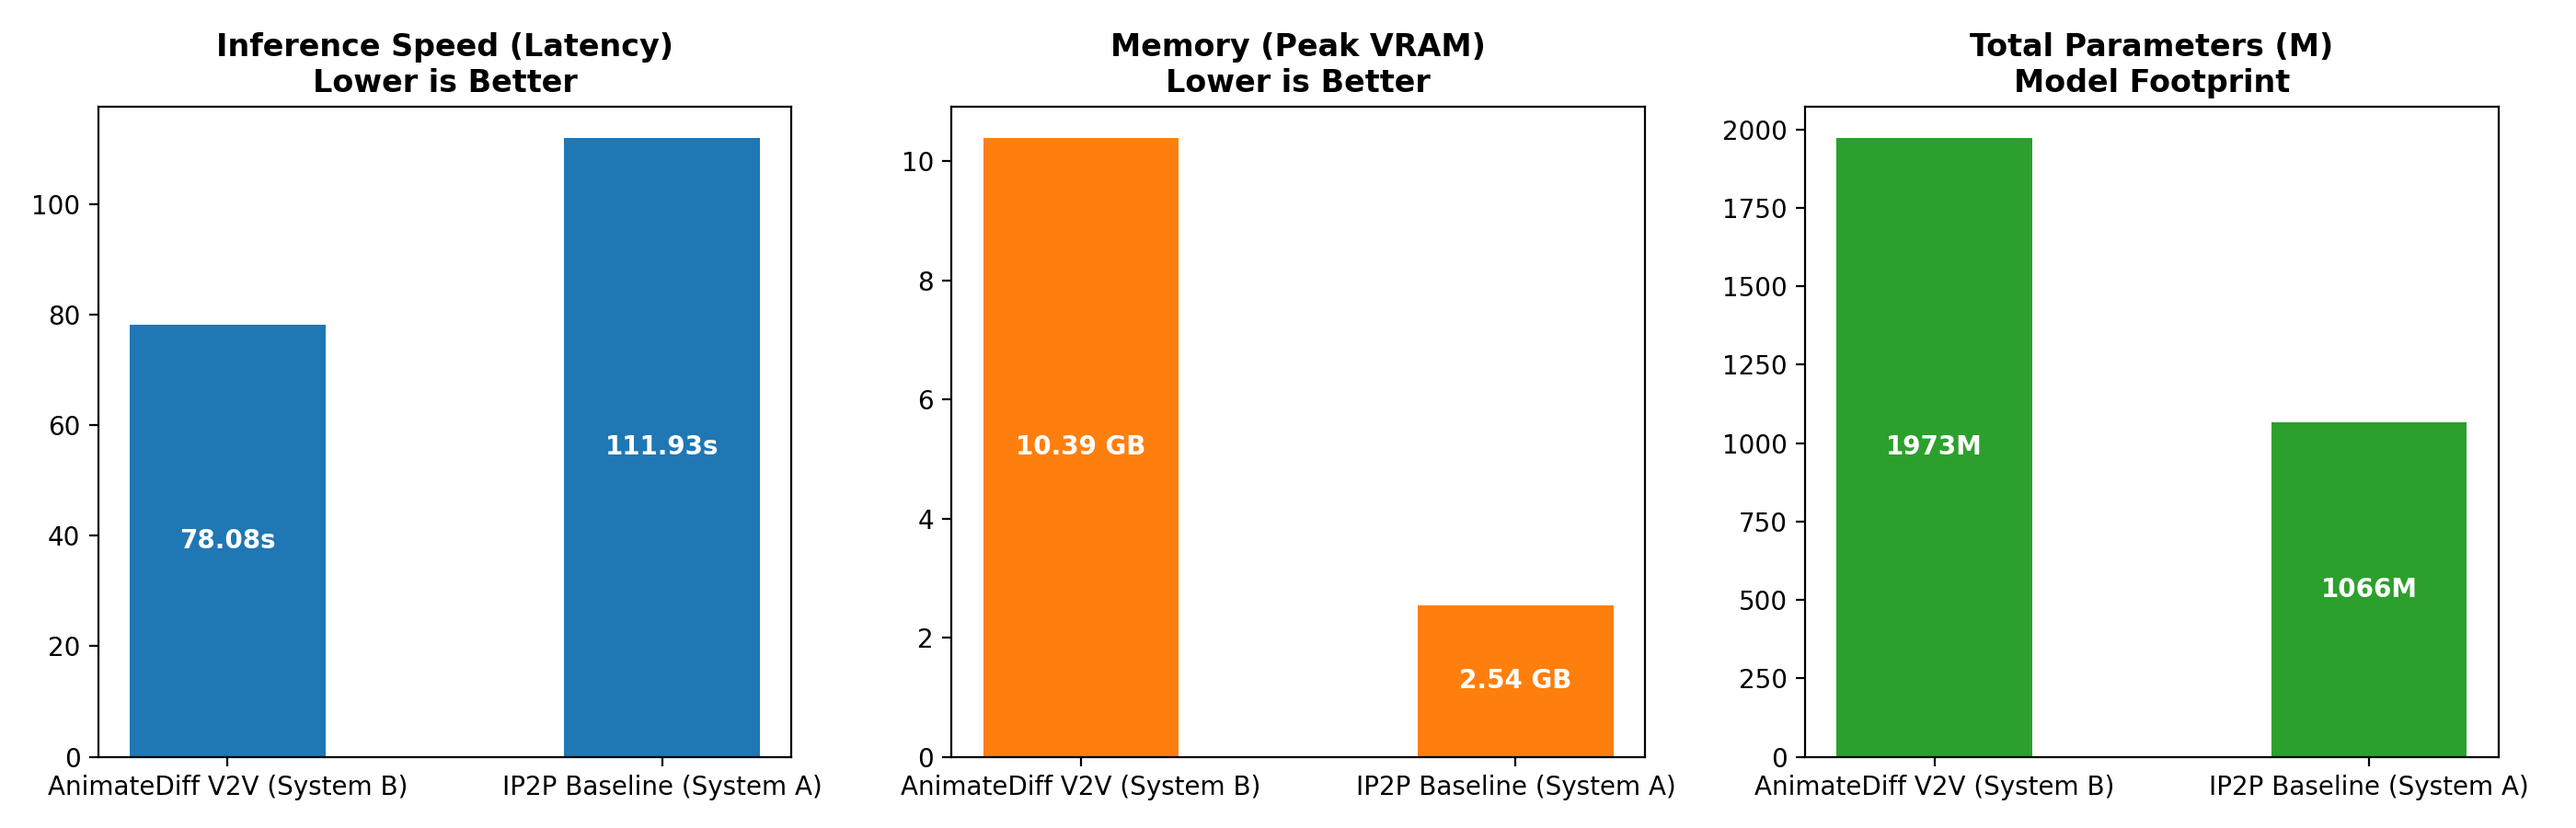
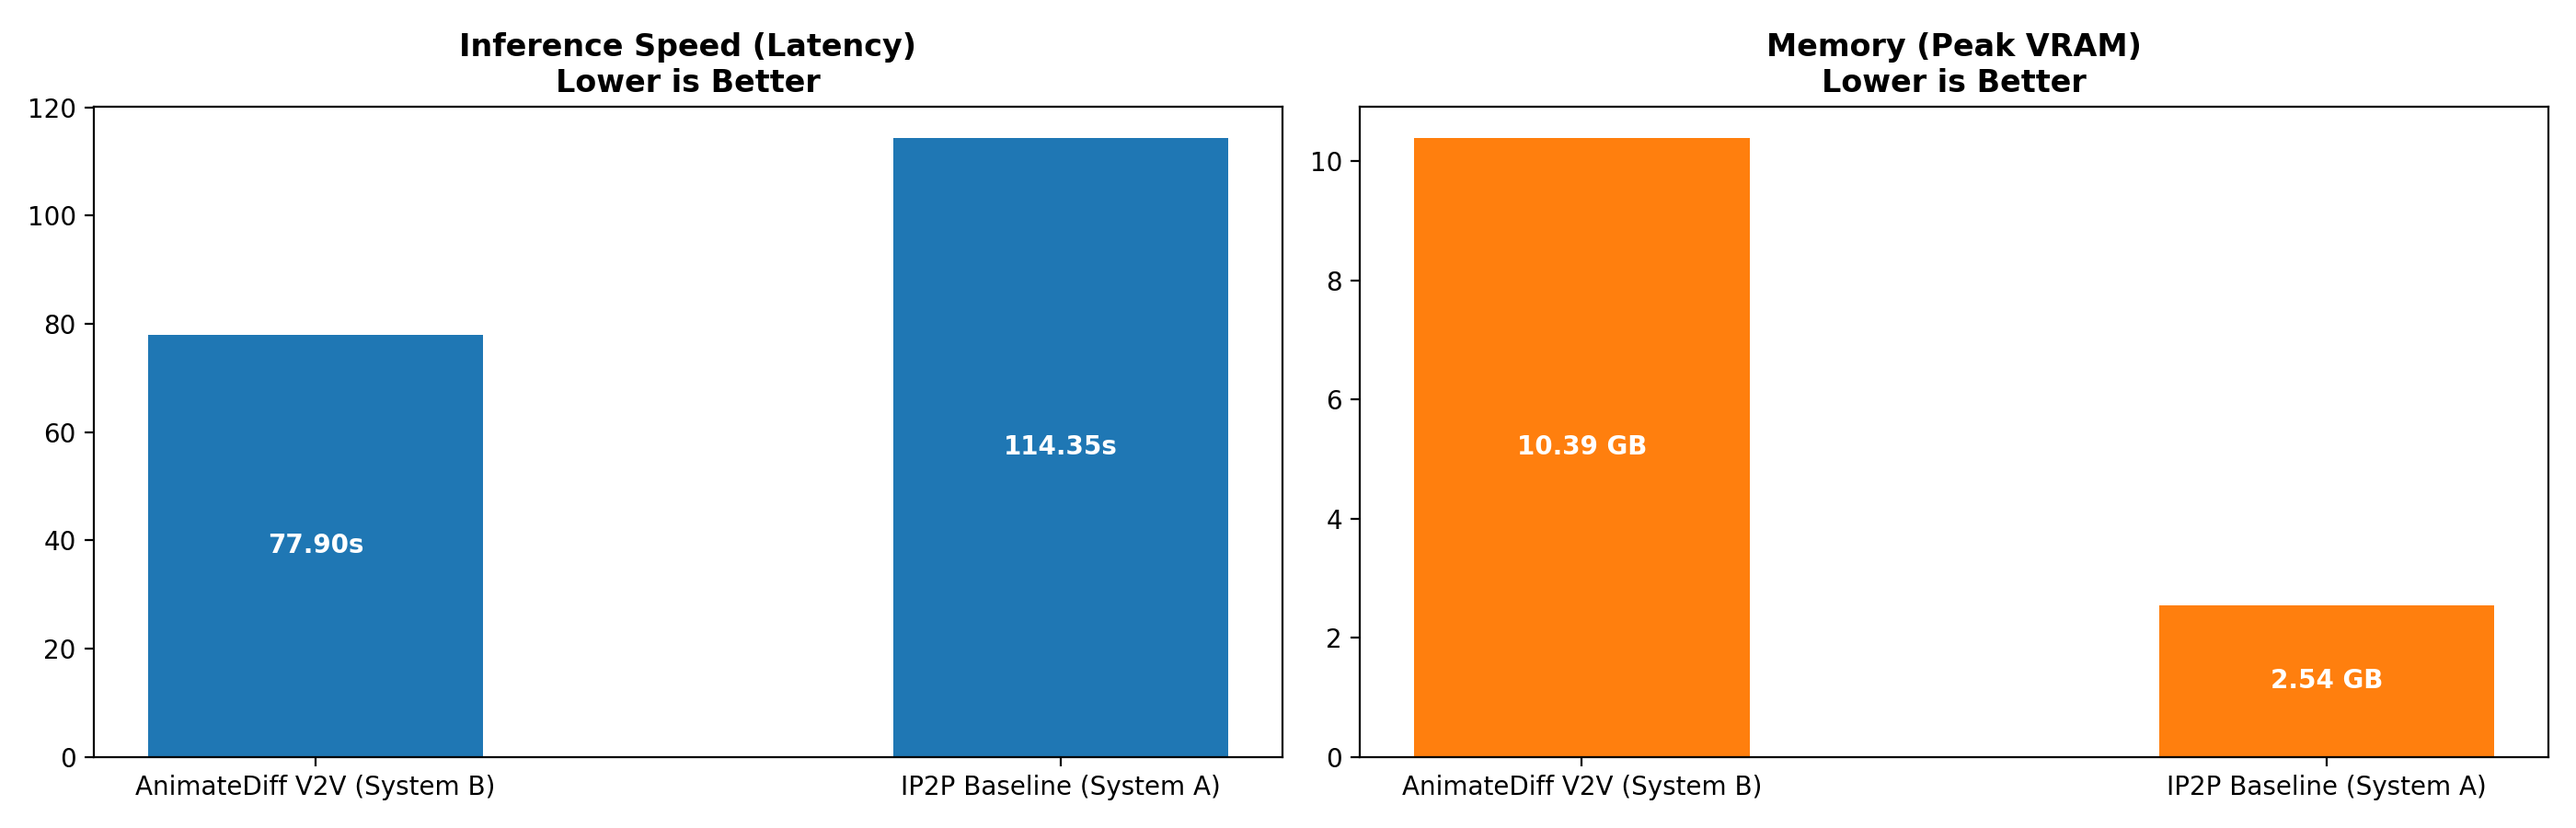
Bug fixes

diff --git a/src/run_pair4_evaluation.py b/src/run_pair4_evaluation.py
@@ -38,15 +38,13 @@ def plot_results(df: pd.DataFrame, results_dir: Path):
     cols = [str(c).lower() for c in df.columns]
     latency_col = df.columns[[i for i, c in enumerate(cols) if "latency" in c][0]]
     vram_col = df.columns[[i for i, c in enumerate(cols) if "vram" in c][0]]
-    params_col = df.columns[[i for i, c in enumerate(cols) if "params" in c][0]]
 
-    avg_df = df.groupby("Model")[[latency_col, vram_col, params_col]].mean().reset_index()
-    fig, axes = plt.subplots(1, 3, figsize=(14, 4.5))
+    avg_df = df.groupby("Model")[[latency_col, vram_col]].mean().reset_index()
+    fig, axes = plt.subplots(1, 2, figsize=(14, 4.5))
 
     metrics = [
         (latency_col, "Inference Speed (Latency)\nLower is Better", "#1f77b4", "{:.2f}s"),
-        (vram_col, "Memory (Peak VRAM)\nLower is Better", "#ff7f0e", "{:.2f} GB"),
-        (params_col, "Total Parameters (M)\nModel Footprint", "#2ca02c", "{:.0f}M")
+        (vram_col, "Memory (Peak VRAM)\nLower is Better", "#ff7f0e", "{:.2f} GB")
     ]
 
     for ax, (col, title, color, fmt) in zip(axes, metrics):
@@ -70,7 +68,7 @@ def save_and_record_results(model_name, prefix, res_dict, cases, out_dir, fps=8)
         if cid not in res_dict:
             continue
         
-        frames, latency, vram, total_p = res_dict[cid]
+        frames, latency, vram = res_dict[cid]
         out_path = out_dir / f"{prefix}_{cid}.mp4"
         
         # Export video in the evaluation driver
@@ -81,8 +79,7 @@ def save_and_record_results(model_name, prefix, res_dict, cases, out_dir, fps=8)
             "Test_Case": cid,
             "Model": model_name,
             "Latency_s": latency,
-            "Peak_VRAM_GB": vram,
-            "Total_Params_M": total_p
+            "Peak_VRAM_GB": vram 
         })
     return records
 
@@ -97,30 +94,20 @@ def main():
     results_dir.mkdir(parents=True, exist_ok=True)
 
     cases = load_video_cases(raw_dir, prompts_file)
-    if not cases:
-        print(f"[Warning] No valid test video cases found matching {raw_dir}")
-        return
 
     device = "cuda" if torch.cuda.is_available() else "cpu"
 
-    # 1. Run pure model inferences
-    print("\n--- Running IP2P Baseline (System A) ---")
+    # run model inferences 
     res_sys_a = run_ip2p_frame_by_frame(cases, raw_dir, device=device)
-
-    print("\n--- Running AnimateDiff V2V (System B) ---")
     res_sys_b = run_animatediff_v2v(cases, raw_dir, device=device)
 
-    # 2. Export videos and record system metrics
+    # export videos and record system metrics
     rows = []
     rows.extend(save_and_record_results("IP2P Baseline (System A)", "sys_a", res_sys_a, cases, out_dir))
     rows.extend(save_and_record_results("AnimateDiff V2V (System B)", "sys_b", res_sys_b, cases, out_dir))
 
-    # 3. Aggregate metrics, save CSV, and plot
-    df = pd.DataFrame(rows)
-    metrics_csv = results_dir / "pair4_metrics.csv"
-    df.to_csv(metrics_csv, index=False)
-    print(f"[Metrics Saved] {metrics_csv}")
-
+    # plot results
+    df = pd.DataFrame(rows)  
     plot_results(df, results_dir)
 
 if __name__ == "__main__":

diff --git a/src/models/pair4_models.py b/src/models/pair4_models.py
@@ -37,7 +37,6 @@ def run_ip2p_frame_by_frame(cases, raw_dir, device="cuda"):
     if device == "cuda":
         pipe.enable_model_cpu_offload()
 
-    total_p = count_params(pipe.unet) + count_params(pipe.text_encoder) + count_params(pipe.vae)
     results = {}
 
     for case in cases:
@@ -72,7 +71,7 @@ def run_ip2p_frame_by_frame(cases, raw_dir, device="cuda"):
         vram = (torch.cuda.max_memory_allocated() / (1024**3)) if device == "cuda" else 0.0
 
         # Return raw generated frames and performance metrics
-        results[cid] = (edited_frames, latency, vram, total_p)
+        results[cid] = (edited_frames, latency, vram)
 
     del pipe
     if torch.cuda.is_available():
@@ -93,7 +92,6 @@ def run_animatediff_v2v(cases, raw_dir, device="cuda"):
     if device == "cuda":
         pipe.enable_model_cpu_offload()
 
-    total_p = count_params(pipe.unet) + count_params(pipe.text_encoder) + count_params(pipe.vae) + count_params(adapter)
     results = {}
 
     for case in cases:
@@ -125,7 +123,7 @@ def run_animatediff_v2v(cases, raw_dir, device="cuda"):
         vram = (torch.cuda.max_memory_allocated() / (1024**3)) if device == "cuda" else 0.0
 
         # Return raw generated frames and performance metrics
-        results[cid] = (edited_frames, latency, vram, total_p)
+        results[cid] = (edited_frames, latency, vram)
 
     del pipe
     if torch.cuda.is_available():
